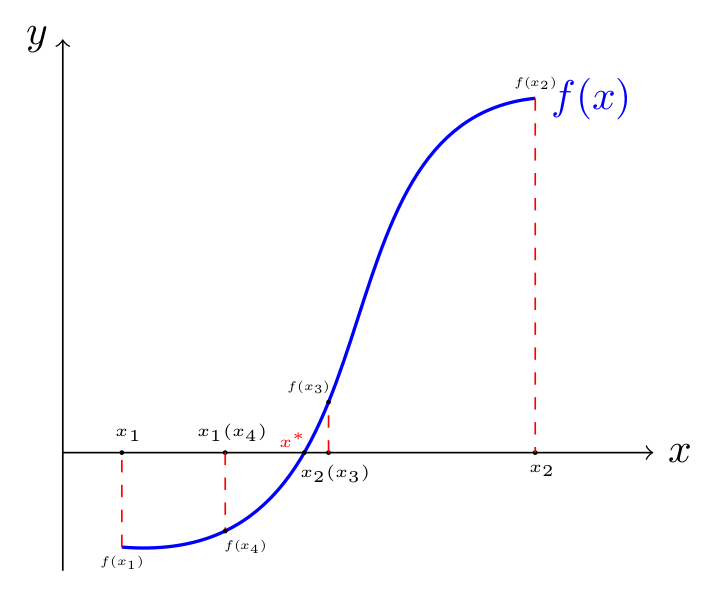
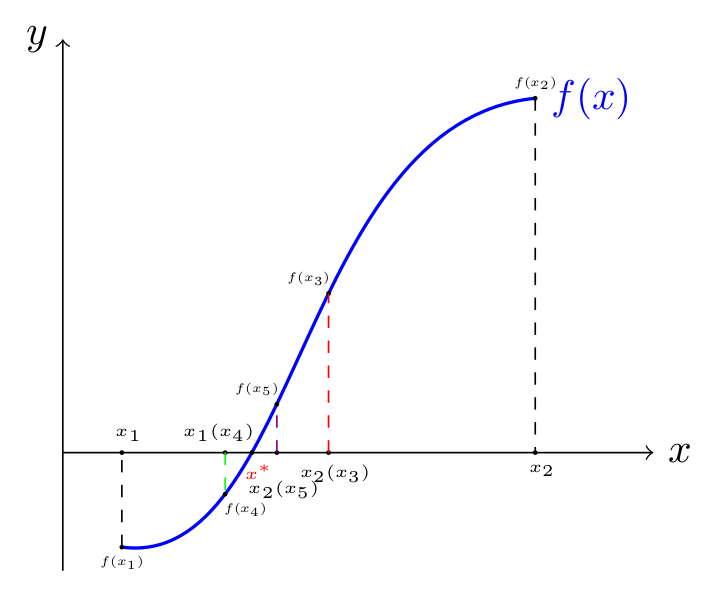
修订tikz-bi-root中的绘图代码为循环绘制

diff --git a/tikz-bi-root/main.tex b/tikz-bi-root/main.tex
@@ -29,13 +29,7 @@
   \path[name path = v](#2|-current bounding box.south) -- (#2|-current bounding box.north);  
    % 求路径#1与路径v的交战，并记为#3
   \intersec{#1}{v}{#3}
-
-  \draw[red, dashed] (#2)--(#3);
-  
 }
-
-  
-
 
 \begin{document}
 \begin{tikzpicture}[
@@ -54,82 +48,58 @@
   \fill[fill=black](x0) circle[radius = 0.02cm] node[red, scale = 0.8,
   below, shift={(2pt, 0pt)}, font=\tiny]{$x^*$};
   
-  % 坐标定义
+  % 初始点坐标定义
   \coordinate (x1) at (0.5, 0);
   \coordinate (x2) at (4.0, 0); 
 
-  % 开始
+  % 迭代初值
   \fill[fill=black](x1) circle[radius = 0.02cm] node[black, scale = 0.8,
   above, shift={(2pt, 0pt)}, font=\tiny]{$x_{1}$};
-  % 绘制垂线
-  \draw[red, dashed] (fx1)node[black,scale = 0.6, below, shift={(0pt,0pt)}, font = \tiny] {$f(x_{1})$}--(x1);
   \fill[fill=black](x2) circle[radius = 0.02cm] node[black, scale = 0.8,
   below, shift={(2pt, 0pt)}, font=\tiny]{$x_{2}$};
-  % 绘制垂线
-  \draw[red, dashed] (fx2)node[black,scale = 0.6, above, shift={(0pt,0pt)}, font = \tiny] {$f(x_{2})$}--(x2);
+  % 初值垂线及函数值标记
+  \draw[black, dashed] (fx1) -- (x1);
+  \draw[black, dashed] (fx2) -- (x2);
+  \fill[fill=black](fx1) circle[radius = 0.02cm] node[black, scale =
+  0.6, below, shift={(0pt, 0pt)}, font=\tiny]{$f(x_{1})$};
+  \fill[fill=black](fx2) circle[radius = 0.02cm] node[black, scale =
+  0.6, above, shift={(0pt, 0pt)}, font=\tiny]{$f(x_{2})$};
 
-  % 第1次迭代
-  \coordinate (bx) at ($(x1)!0.5!(x2)$);
-  \fill[fill=black](bx) circle[radius = 0.02cm] node[black, scale = 0.8,
-  below, shift={(2pt, 0pt)}, font=\tiny]{$x_{2}(x_{3})$};
-  \insecvline{graph}{bx}{fx} 
-
-  \fill[fill=black](fx) circle[radius = 0.02cm] node[black, scale = 0.6,
-  above, shift={(-8pt, 0pt)}, font=\tiny]{$f(x_{3})$};
-
-  % 第2次迭代
-  \coordinate (x2) at (bx);
-  \coordinate (bx) at ($(x1)!0.5!(x2)$);
-  \fill[fill=black](bx) circle[radius = 0.02cm] node[black, scale = 0.8,
-  above, shift={(-2pt, 0pt)}, font=\tiny]{$x_{1}(x_{4})$};
-  \insecvline{graph}{bx}{fx}
-
-  \fill[fill=black](fx) circle[radius = 0.02cm] node[black, scale = 0.6,
-  below, shift={(8pt, 0pt)}, font=\tiny]{$f(x_{4})$};
+  % 迭代循环
+  % \X---迭代编号
+  % \sel---迭代后x1,x2中选中的编号(1或2)
+  % \xvpos---x轴标记位置(above,below,left,right)
+  % \fvpos---f(x)值标记位置(above,below,left,right)
+  % \xvoff---x轴标记的垂直偏移量(需要指明单位pt)
+  % \clr---本次迭代垂线着色
+  \foreach \X/\sel/\xvpos/\fvpos/\xvoff/\clr in
+  {
+    3/2/below/above/0pt/red,
+    4/1/above/below/0pt/green,
+    5/2/below/above/-5pt/violet}
+  {
+    % 求出x1和x2的中点坐标
+    \coordinate (bx) at ($(x1)!0.5!(x2)$);
+    % 求过bx的垂线与曲线交点坐标
+    \insecvline{graph}{bx}{fx}
+    % 绘制x轴坐标点和对应函数值点
+    \ifodd\sel% 迭代后选择x1
+      \fill[fill=black](bx) circle[radius = 0.02cm] node[black, scale = 0.8,
+      \xvpos, shift={(-2pt, \xvoff)}, font=\tiny]{$x_{\sel}(x_{\X})$};
+      \fill[fill=black](fx) circle[radius = 0.02cm] node[black, scale = 0.6,
+      \fvpos, shift={(8pt, 0pt)}, font=\tiny]{$f(x_{\X})$};
+    \else% 迭代后选择x2
+      \fill[fill=black](bx) circle[radius = 0.02cm] node[black, scale = 0.8,
+      \xvpos, shift={(2pt, \xvoff)}, font=\tiny]{$x_{\sel}(x_{\X})$};
+      \fill[fill=black](fx) circle[radius = 0.02cm] node[black, scale = 0.6,
+      \fvpos, shift={(-8pt, 0pt)}, font=\tiny]{$f(x_{\X})$};
+    \fi
+    % 绘制x轴坐标点和对应函数值点间的垂线  
+    \draw[\clr, dashed] (bx)--(fx);   
   
-  % 第3次迭代
-  \coordinate (x1) at (bx);
-  \coordinate (bx) at ($(x1)!0.5!(x2)$);
-  \fill[fill=black](bx) circle[radius = 0.02cm] node[black, scale = 0.8,
-  below, shift={(2pt, -5pt)}, font=\tiny]{$x_{2}(x_{5})$};
-  \insecvline{graph}{bx}{fx}
-  
-  \fill[fill=black](fx) circle[radius = 0.02cm] node[black, scale = 0.6,
-  above, shift={(-8pt, 0pt)}, font=\tiny]{$f(x_{5})$};
-  
-  
-  % % 绘制起始点
-  % \fill[fill = black] (0.5, -0.8) coordinate (xs) circle[radius = 0.02cm] node[scale = 0.5, shift={(2pt, 0)},below, font = \tiny] {$x_{0}$};
-
-  % % 通过循环绘制3次迭代结果
-  % \foreach \X/\clr in {1/red, 2/green, 3/violet, 4/magenta}
-  % {
-  %   % 调整x轴点标记y方向偏移
-  %   \ifodd\X
-  %     \xdef\yoff{-3pt}
-  %   \else
-  %     \xdef\yoff{0pt}
-  %   \fi
-    
-  %   % 过xs的垂线与曲线graph的交点
-  %   \path[name path=v](xs|-current bounding box.south) -- (xs|-current bounding box.north);
-  %   \intersec{graph}{v}{fx}
-  %   \pgfmathsetmacro{\fxn}{int(\X-1)}
-  %   \fill[fill = black] (fx) circle[radius = 0.02cm] node[scale = 0.6, left, shift={(2pt,3pt)}, font = \tiny] {$f(x_{\fxn})$};
-
-  %   % 求切线端点
-  %   \tanterms{graph}{fx}{li}{ri}
-  %   % 定义切线路径，对得到的切线微元进行延长
-  %   % 延长倍数和方向需要手动调整(需要改进)
-  %   \path[name path=t](ri)--($(ri)!12!(li)$);
-  %   \intersec{t}{x}{tx}
-  %   \fill[fill = black] (tx) circle[radius = 0.02cm] node[scale = 0.5, shift={(2pt, \yoff)}, below, font = \tiny] {$x_{\X}$};
-  %   % 绘制切线和垂线
-  %   \draw[\clr, dashed] (fx)--(tx) (fx)--(xs);
-
-  %   % 下一次迭代
-  %   \coordinate (xs) at (tx);
-  % }
+    % 准备下一次迭代
+    \coordinate (x\sel) at (bx);
+  }
 \end{tikzpicture}
 \end{document}
 
